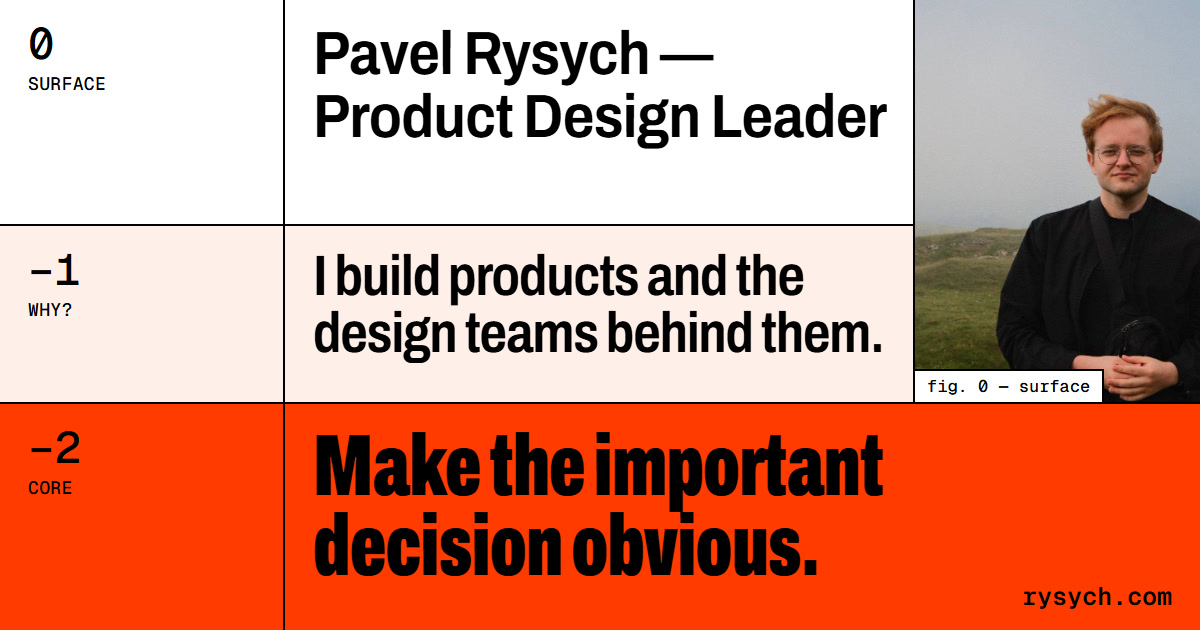
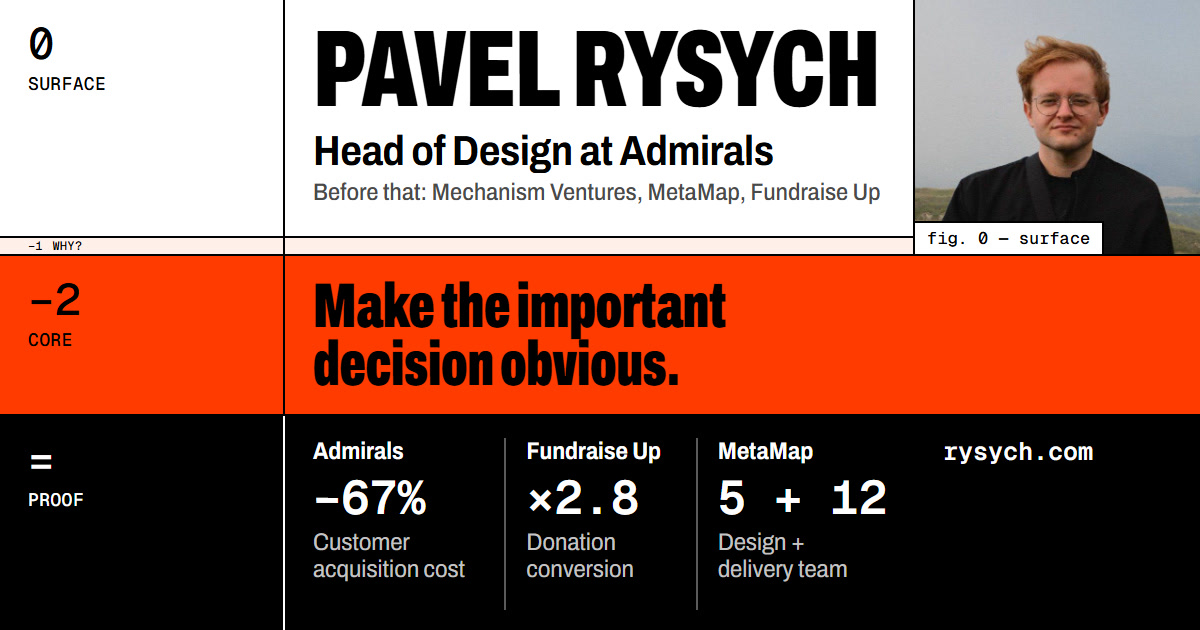
Hero says who Pavel is; the index X-rays each project to its core
The first screen now names the role and scope: Head of Design at
Admirals, the three companies before, and "9+ years, Tbilisi GMT+4,
remote or relocation"; the homepage header keeps only the name and the
legend says "Core". All five work rows load closed, so the whole career
fits under the hero; hovering or focusing a row turns it red and shows
its core sentence in place of the name. Toggle hover states no longer
stick after a tap on phones. New home share card with the role and
three approved figures.

diff --git a/index.html b/index.html
@@ -18,26 +18,26 @@
     <link rel="preload" href="/assets/fonts/geist-mono-var.woff2?v=1" as="font" type="font/woff2" crossorigin>
     <link rel="preload" as="image" type="image/webp" imagesrcset="/assets/hero-hills-800.webp 800w, /assets/hero-hills-1280.webp 1280w, /assets/hero-hills-2000.webp 2000w" imagesizes="(max-width: 640px) 300px, 540px" fetchpriority="high">
     <script>document.documentElement.classList.add('js')</script>
-    <link rel="stylesheet" href="/home.css?v=81">
+    <link rel="stylesheet" href="/home.css?v=83">
     <script src="/site.js?v=20" defer></script>
-    <script src="/home.js?v=21" defer></script>
+    <script src="/home.js?v=22" defer></script>
     <meta property="og:type" content="website">
     <meta property="og:locale" content="en_US">
     <meta property="og:site_name" content="Pavel Rysych">
     <meta property="og:title" content="Pavel Rysych — Product Design Leader &amp; Head of Design">
     <meta property="og:description" content="Pavel Rysych, Product Design Leader and Head of Design, builds products and the design teams behind them. Admirals: −67% CAC. Fundraise Up: 2.8× conversion.">
     <meta property="og:url" content="https://www.rysych.com/">
-    <meta property="og:image" content="https://www.rysych.com/assets/og/home.jpg?v=3">
-    <meta property="og:image:secure_url" content="https://www.rysych.com/assets/og/home.jpg?v=3">
+    <meta property="og:image" content="https://www.rysych.com/assets/og/home.jpg?v=4">
+    <meta property="og:image:secure_url" content="https://www.rysych.com/assets/og/home.jpg?v=4">
     <meta property="og:image:type" content="image/jpeg">
     <meta property="og:image:width" content="1200">
     <meta property="og:image:height" content="630">
-    <meta property="og:image:alt" content="Pavel Rysych, Product Design Leader: I build products and the design teams behind them. Make the important decision obvious.">
+    <meta property="og:image:alt" content="Pavel Rysych, Head of Design at Admirals; before that Mechanism Ventures, MetaMap, Fundraise Up. Core: Make the important decision obvious. Proof: −67% customer acquisition cost at Admirals, ×2.8 donation conversion at Fundraise Up, and a 5 + 12 design and delivery team at MetaMap.">
     <meta name="twitter:card" content="summary_large_image">
     <meta name="twitter:title" content="Pavel Rysych — Product Design Leader &amp; Head of Design">
     <meta name="twitter:description" content="Pavel Rysych, Product Design Leader and Head of Design, builds products and the design teams behind them. Admirals: −67% CAC. Fundraise Up: 2.8× conversion.">
-    <meta name="twitter:image" content="https://www.rysych.com/assets/og/home.jpg?v=3">
-    <meta name="twitter:image:alt" content="Pavel Rysych, Product Design Leader: I build products and the design teams behind them. Make the important decision obvious.">
+    <meta name="twitter:image" content="https://www.rysych.com/assets/og/home.jpg?v=4">
+    <meta name="twitter:image:alt" content="Pavel Rysych, Head of Design at Admirals; before that Mechanism Ventures, MetaMap, Fundraise Up. Core: Make the important decision obvious. Proof: −67% customer acquisition cost at Admirals, ×2.8 donation conversion at Fundraise Up, and a 5 + 12 design and delivery team at MetaMap.">
     <script type="application/ld+json">{"@context":"https://schema.org","@graph":[{"@type":"WebSite","@id":"https://www.rysych.com/#website","url":"https://www.rysych.com/","name":"Pavel Rysych","alternateName":["Rysych","rysych.com"],"description":"Portfolio of Pavel Rysych, Product Design Leader and Head of Design.","inLanguage":"en","publisher":{"@id":"https://www.rysych.com/#person"}},{"@type":"ProfilePage","@id":"https://www.rysych.com/","url":"https://www.rysych.com/","name":"Pavel Rysych — Product Design Leader & Head of Design","description":"Pavel Rysych, Product Design Leader and Head of Design, builds products and the design teams behind them. Admirals: −67% CAC. Fundraise Up: 2.8× conversion.","inLanguage":"en","isPartOf":{"@id":"https://www.rysych.com/#website"},"mainEntity":{"@id":"https://www.rysych.com/#person"},"primaryImageOfPage":{"@id":"https://www.rysych.com/#portrait"},"dateCreated":"2026-05-05T17:44:40+04:00","dateModified":"2026-10-08T20:00:00+04:00"},{"@type":"Person","@id":"https://www.rysych.com/#person","name":"Pavel Rysych","url":"https://www.rysych.com/","jobTitle":"Head of Design","sameAs":["https://www.linkedin.com/in/rysych/","https://www.instagram.com/pavel_rysych/","https://www.threads.com/@pavel_rysych"],"image":{"@id":"https://www.rysych.com/#portrait"},"worksFor":{"@id":"https://www.rysych.com/#org-admirals"},"description":"Product Design Leader and Head of Design. Leads product design, builds design teams and brings AI into everyday product work.","email":"mailto:rysych@gmail.com","knowsAbout":["Product design","Design leadership","Design systems","Prototyping","AI-assisted design and implementation","Product and growth","Customer journeys","Onboarding","Identity verification","Donation experience"]},{"@type":"ImageObject","@id":"https://www.rysych.com/#portrait","url":"https://www.rysych.com/assets/hero-hills-2000.jpg","contentUrl":"https://www.rysych.com/assets/hero-hills-2000.jpg","width":2000,"height":1333,"caption":"Pavel Rysych"},{"@type":"Organization","@id":"https://www.rysych.com/#org-admirals","name":"Admirals","url":"https://admiralmarkets.com/","logo":{"@type":"ImageObject","url":"https://www.rysych.com/assets/admirals-logo-dark.svg"}}]}</script>
   </head>
   <body class="home">
@@ -45,7 +45,6 @@
 
     <header class="site-header">
       <a class="wordmark" href="#main" aria-label="Pavel Rysych, Product Design Leader, home">Pavel Rysych</a>
-      <span class="site-header__title">Product Design Leader</span>
       <nav class="site-nav" aria-label="Main navigation">
         <ul>
           <li><a href="#work">Work</a></li>
@@ -75,6 +74,8 @@
           <p class="depth" aria-hidden="true"><b>0</b><span>Surface</span></p>
           <div class="body">
             <h1 id="hero-title">Pavel Rysych — Product Design Leader</h1>
+            <p class="hero__role">Head of Design at Admirals; before that <span class="nowrap">Mechanism Ventures</span>, MetaMap, <span class="nowrap">Fundraise Up</span></p>
+            <p class="hero__facts mono"><span class="nowrap">9+ years ·</span> <span class="nowrap">Tbilisi, GMT+4 ·</span> <span class="nowrap">remote or relocation</span></p>
             <p class="hero__intro">I lead product design and bring AI into everyday work — from prototypes and design systems to implementation.</p>
           </div>
         </div>
@@ -104,7 +105,7 @@
             <li><i aria-hidden="true"></i>0 Surface</li>
             <li><i class="k1" aria-hidden="true"></i>−1 Why?</li>
             <li><i class="k2" aria-hidden="true"></i>−2 Why?</li>
-            <li><i class="k3" aria-hidden="true"></i>−3 Core</li>
+            <li><i class="k3" aria-hidden="true"></i>Core</li>
             <li><i class="k4" aria-hidden="true"></i>= Proof</li>
           </ul>
           <button class="digall" type="button" data-digall hidden><span class="digall__label">Dig all five</span><svg width="16" height="16" viewBox="0 0 16 16" aria-hidden="true" focusable="false"><path d="M8 2v11M3.5 8.5 8 13l4.5-4.5" fill="none" stroke="currentColor" stroke-width="1.7" stroke-linecap="square"/></svg></button>
@@ -113,7 +114,7 @@
         <ol class="index" data-borehole>
 
           <!-- 1 · Subskim -->
-          <li class="p is-open" id="subskim">
+          <li class="p" id="subskim">
             <h3><button class="p__btn" type="button" id="btn-subskim" aria-expanded="true" aria-controls="dig-subskim">
               <span class="p__yrs mono">2026–Now</span>
               <span class="p__thumb" aria-hidden="true"><video data-case-autoplay data-case-lazy data-quiet muted loop playsinline disablepictureinpicture disableremoteplayback preload="none" data-poster="/assets/card-subskim-poster.jpg" width="1280" height="640" style="--pos:30% 40%" aria-hidden="true"><source data-src="/assets/card-subskim.mp4" type="video/mp4"></video></span>

diff --git a/home.css b/home.css
@@ -243,8 +243,8 @@ button {
   user-select: none;
 }
 .mobile-nav summary::-webkit-details-marker { display: none; }
-.mobile-nav summary:hover,
 .mobile-nav[open] summary { background: var(--ink); color: var(--paper); }
+@media (hover: hover) { .mobile-nav summary:hover { background: var(--ink); color: var(--paper); } }
 .mobile-nav summary:focus-visible { outline-color: var(--signal); }
 .mobile-nav nav {
   position: absolute;
@@ -292,12 +292,12 @@ button {
 .motion-toggle__play,
 .motion-toggle.is-paused .motion-toggle__pause { display: none; }
 .motion-toggle.is-paused .motion-toggle__play { display: block; }
-.motion-toggle:hover,
 .motion-toggle:focus-visible { background: var(--ink); color: var(--paper); }
+@media (hover: hover) { .motion-toggle:hover { background: var(--ink); color: var(--paper); } }
 .motion-toggle:focus-visible { outline-color: var(--signal); }
 .motion-toggle.is-paused { background: var(--signal); border-color: var(--signal); color: var(--ink); }
-.motion-toggle.is-paused:hover,
 .motion-toggle.is-paused:focus-visible { background: var(--ink); border-color: var(--ink); color: var(--paper); }
+@media (hover: hover) { .motion-toggle.is-paused:hover { background: var(--ink); border-color: var(--ink); color: var(--paper); } }
 
 /* ---------- Strata: the shared grammar ---------- */
 
@@ -385,7 +385,10 @@ button {
 .hero__pic img { position: absolute; inset: 0; width: 100%; height: 100%; object-fit: cover; object-position: 71% 42%; }
 .hero__pic figcaption { position: absolute; left: 0; bottom: 0; padding: 4px 8px; border-top: 1px solid var(--ink); border-right: 1px solid var(--ink); background: var(--paper); }
 .hero h1 { font-size: clamp(24px, 2.3vw, 36px); font-weight: 650; font-stretch: 88%; line-height: 1.08; letter-spacing: -0.01em; text-wrap: balance; }
-.hero__intro { max-width: 62ch; margin-top: 8px; color: var(--mute); text-wrap: pretty; }
+/* who he is, in two lines a recruiter checks first: the current role and record, then years, place and format */
+.hero__role { margin-top: 8px; font-weight: 560; line-height: 1.35; text-wrap: balance; }
+.hero__facts { margin-top: 4px; }
+.hero__intro { max-width: 62ch; margin-top: 10px; color: var(--mute); text-wrap: pretty; }
 .hero__s0 .body { padding-bottom: clamp(16px, 1.8vw, 24px); }
 .promise { max-width: 22ch; font-size: clamp(32px, 3.9vw, 60px); font-weight: 650; font-stretch: 80%; line-height: 1; letter-spacing: -0.018em; text-wrap: balance; }
 .hero__core .body { padding-block: clamp(14px, 1.6vw, 22px) clamp(14px, 1.8vw, 24px); }
@@ -424,8 +427,8 @@ button {
   white-space: nowrap;
 }
 .digall[hidden] { display: none; }
-.digall:hover,
 .digall:focus-visible { background: var(--ink); color: var(--paper); }
+@media (hover: hover) { .digall:hover { background: var(--ink); color: var(--paper); } }
 .digall:focus-visible { outline-color: var(--signal); }
 .digall.is-all { background: var(--signal); border-color: var(--signal); color: var(--ink); }
 .digall svg,
@@ -434,6 +437,7 @@ button {
 
 .p { border-bottom: 1px solid var(--ink); }
 .p__btn {
+  position: relative;
   display: grid;
   grid-template-columns: var(--ruler) auto minmax(0, 1fr) minmax(0, 13rem) minmax(0, 12.5rem) auto;
   align-items: center;
@@ -480,12 +484,15 @@ button {
   white-space: nowrap;
 }
 .p__shut { display: none; }
-.p__btn:hover,
 .p__btn:focus-visible,
 .p.is-open .p__btn { background: var(--ink); color: var(--paper); }
-.p__btn:hover small,
 .p__btn:focus-visible small,
 .p.is-open .p__btn small { color: var(--mute-dark); }
+/* only a real pointer hovers: on touch a tapped row would keep the hover and look dug after Close */
+@media (hover: hover) {
+  .p__btn:hover { background: var(--ink); color: var(--paper); }
+  .p__btn:hover small { color: var(--mute-dark); }
+}
 .p__btn:focus-visible { outline: 3px solid var(--signal); outline-offset: -3px; }
 /* two dug rows meet black on black: a dark hairline keeps them apart */
 .p.is-open .p__btn { box-shadow: inset 0 1px 0 var(--rule-dark); }
@@ -495,6 +502,36 @@ button {
 .p.is-open .p__shut { display: inline; }
 /* without script every row is already dug, so the toggle has nothing to say */
 html:not(.js) .p__why { display: none; }
+
+/* X-ray: point at a closed row, or tab to it, and it shows what lies under it. The row turns
+   the core's red and the name gives way to the core, copied verbatim from the row's Core stratum
+   by home.js and sized to fit the name's cell. A state, not a motion: the box sits over the cell
+   out of flow, so the row never changes height. --under fades what the box covers; it only goes
+   transparent, so the name stays in the button's accessible name. The X-ray itself is aria-hidden. */
+.p__xray {
+  position: absolute;
+  inset: 0;
+  grid-column: 3 / 4;
+  grid-row: 1 / 2;
+  display: flex;
+  flex-direction: column;
+  justify-content: center;
+  gap: 6px;
+  padding: 10px 16px 10px clamp(14px, 1.6vw, 26px);
+  overflow: hidden;
+  visibility: var(--xray, hidden);
+}
+.p__xlabel { flex: none; overflow: hidden; font-family: var(--mono); font-size: 12px; font-weight: 500; line-height: 1.2; text-overflow: ellipsis; text-transform: uppercase; white-space: nowrap; }
+.p__xcore { flex: none; font-size: clamp(40px, 5.7vw, 92px); font-weight: 860; font-stretch: 62%; line-height: 0.9; letter-spacing: -0.012em; text-wrap: balance; }
+.index .p__name { opacity: var(--under, 1); }
+.js .p:not(.is-open) .p__btn:focus-visible { --xray: visible; --under: 0; background: var(--signal); color: var(--ink); outline-color: var(--ink); }
+.js .p:not(.is-open) .p__btn:focus-visible small { color: var(--ink); }
+.js .p:not(.is-open) .p__btn:focus-visible .p__why { border-color: var(--ink); background: var(--ink); color: var(--paper); }
+@media (hover: hover) {
+  .js .p:not(.is-open) .p__btn:hover { --xray: visible; --under: 0; background: var(--signal); color: var(--ink); }
+  .js .p:not(.is-open) .p__btn:hover small { color: var(--ink); }
+  .js .p:not(.is-open) .p__btn:hover .p__why { border-color: var(--ink); background: var(--ink); color: var(--paper); }
+}
 
 /* the dig. Before the script runs, closed rows stay shut so nothing jumps;
    once it runs they become hidden="until-found", which find-in-page can still open. */
@@ -666,8 +703,8 @@ html:not(.js) .p__why { display: none; }
 .copy.is-copied { background: var(--signal); border-color: var(--signal); color: var(--ink); }
 .copy.is-copied .copy__idle { visibility: hidden; }
 .copy.is-copied .copy__done { visibility: visible; }
-.copy:hover:not(.is-copied),
 .copy:focus-visible:not(.is-copied) { background: var(--paper); color: var(--ink); }
+@media (hover: hover) { .copy:hover:not(.is-copied) { background: var(--paper); color: var(--ink); } }
 .links { display: flex; flex-wrap: wrap; gap: 10px; margin-top: clamp(20px, 2.4vw, 32px); }
 .links a {
   display: inline-flex;
@@ -753,6 +790,9 @@ html:not(.js) .p__why { display: none; }
   .p__role { grid-area: role; align-self: start; padding: 0 16px 10px clamp(14px, 1.6vw, 26px); }
   .p__fig { grid-area: fig; }
   .p__why { grid-area: why; }
+  /* the role sits under the name here, so the X-ray takes the whole name block and covers both */
+  .p__xray { grid-column: name; grid-row: name-start / role-end; }
+  .index .p__role { opacity: var(--under, 1); }
 }
 
 @media (max-width: 860px) {
@@ -846,6 +886,7 @@ html:not(.js) .p__why { display: none; }
   .p__thumb { width: clamp(56px, 18vw, 76px); margin: 0; }
   .p__name { padding: 2px 0 0; font-size: clamp(38px, 11.6vw, 56px); }
   .p__role { padding: 0; }
+  .p__xray { padding: 0; }
   .p__fig { flex-flow: row wrap; align-items: baseline; gap: 2px 8px; padding: 0; }
   .p__fig b { font-size: 20px; }
   .p__why { margin-right: 0; justify-self: end; }

diff --git a/home.js b/home.js
@@ -89,6 +89,62 @@
     window.addEventListener('hashchange', fromHash);
     if (window.location.hash) fromHash();
     sync();
+
+    // X-ray: a closed row shows its core where its name stands while it is pointed at or tabbed to.
+    // The words are copied from the row's own Core stratum, so they stay verbatim; home.css decides
+    // when the box shows, and this only builds it and sizes the sentence to the name's cell.
+    const xrays = rows.map((row) => {
+      const name = row.querySelector('.p__name');
+      const core = row.querySelector('.dig .t-core .core-line');
+      const depth = row.querySelector('.dig .t-core .depth');
+      if (!name || !core) return null;
+      const box = document.createElement('span');
+      box.className = 'p__xray';
+      box.setAttribute('aria-hidden', 'true');
+      const label = document.createElement('span');
+      label.className = 'p__xlabel';
+      const where = depth ? [...depth.children].map((part) => part.textContent.trim()).join(' ') : 'Core';
+      label.textContent = `${name.textContent.trim()} / ${where}`;
+      const text = document.createElement('span');
+      text.className = 'p__xcore';
+      text.textContent = core.textContent.trim();
+      box.append(label, text);
+      name.after(box);
+      return { box, label, text };
+    }).filter(Boolean);
+
+    // the largest size, up to the Core setting, at which the sentence fits the cell without overflowing
+    const fit = ({ box, label, text }) => {
+      text.style.removeProperty('font-size');
+      const cs = getComputedStyle(box);
+      const width = box.clientWidth - parseFloat(cs.paddingLeft) - parseFloat(cs.paddingRight);
+      const height = box.clientHeight - parseFloat(cs.paddingTop) - parseFloat(cs.paddingBottom) - label.offsetHeight - (parseFloat(cs.rowGap) || 0);
+      if (width <= 0 || height <= 0) return;
+      const fits = () => text.offsetHeight <= height && text.scrollWidth <= text.clientWidth;
+      if (fits()) return;
+      let lo = 10;
+      let hi = parseFloat(getComputedStyle(text).fontSize);
+      for (let i = 0; i < 9; i += 1) {
+        const mid = (lo + hi) / 2;
+        text.style.fontSize = `${mid}px`;
+        if (fits()) lo = mid;
+        else hi = mid;
+      }
+      text.style.fontSize = `${Math.floor(lo)}px`;
+    };
+    const fitAll = () => xrays.forEach(fit);
+    if ('ResizeObserver' in window) {
+      const watch = new ResizeObserver((entries) => entries.forEach((entry) => {
+        const xray = xrays.find((x) => x.box === entry.target);
+        if (xray) fit(xray);
+      }));
+      xrays.forEach((x) => watch.observe(x.box));
+    } else {
+      window.addEventListener('resize', fitAll);
+      fitAll();
+    }
+    // the faces swap in after first paint and change every measure
+    document.fonts?.ready.then(fitAll);
   });
 
   /* ---------- Copy email: works even where mailto has no mail app behind it ---------- */

diff --git a/work/fundraise-up/index.html b/work/fundraise-up/index.html
@@ -14,11 +14,11 @@
     <link rel="apple-touch-icon" sizes="180x180" href="/assets/apple-touch-icon.png?v=2">
     <link rel="preload" href="/assets/fonts/archivo-var-latin.woff2?v=1" as="font" type="font/woff2" crossorigin>
     <link rel="preload" href="/assets/fonts/geist-mono-var.woff2?v=1" as="font" type="font/woff2" crossorigin>
-    <link rel="stylesheet" href="/home.css?v=81">
+    <link rel="stylesheet" href="/home.css?v=83">
     <link rel="stylesheet" href="/assets/fundraise-case.css?v=3">
     <link rel="stylesheet" href="/case.css?v=34">
     <script src="/site.js?v=20" defer></script>
-    <script src="/home.js?v=21" defer></script>
+    <script src="/home.js?v=22" defer></script>
     <meta property="og:type" content="article">
     <meta property="og:locale" content="en_US">
     <meta property="og:site_name" content="Pavel Rysych">

diff --git a/work/admirals/index.html b/work/admirals/index.html
@@ -15,10 +15,10 @@
     <link rel="preload" as="image" href="/assets/admirals-website-film-v3-poster.jpg" fetchpriority="high">
     <link rel="preload" href="/assets/fonts/archivo-var-latin.woff2?v=1" as="font" type="font/woff2" crossorigin>
     <link rel="preload" href="/assets/fonts/geist-mono-var.woff2?v=1" as="font" type="font/woff2" crossorigin>
-    <link rel="stylesheet" href="/home.css?v=81">
+    <link rel="stylesheet" href="/home.css?v=83">
     <link rel="stylesheet" href="/case.css?v=34">
     <script src="/site.js?v=20" defer></script>
-    <script src="/home.js?v=21" defer></script>
+    <script src="/home.js?v=22" defer></script>
     <meta property="og:type" content="article">
     <meta property="og:locale" content="en_US">
     <meta property="og:site_name" content="Pavel Rysych">

diff --git a/work/metamap/index.html b/work/metamap/index.html
@@ -15,10 +15,10 @@
     <link rel="preload" as="image" href="/assets/metamap-mati-poster.jpg" fetchpriority="high">
     <link rel="preload" href="/assets/fonts/archivo-var-latin.woff2?v=1" as="font" type="font/woff2" crossorigin>
     <link rel="preload" href="/assets/fonts/geist-mono-var.woff2?v=1" as="font" type="font/woff2" crossorigin>
-    <link rel="stylesheet" href="/home.css?v=81">
+    <link rel="stylesheet" href="/home.css?v=83">
     <link rel="stylesheet" href="/case.css?v=34">
     <script src="/site.js?v=20" defer></script>
-    <script src="/home.js?v=21" defer></script>
+    <script src="/home.js?v=22" defer></script>
     <meta property="og:type" content="article">
     <meta property="og:locale" content="en_US">
     <meta property="og:site_name" content="Pavel Rysych">

diff --git a/work/mechanism/index.html b/work/mechanism/index.html
@@ -14,10 +14,10 @@
     <link rel="apple-touch-icon" sizes="180x180" href="/assets/apple-touch-icon.png?v=2">
     <link rel="preload" href="/assets/fonts/archivo-var-latin.woff2?v=1" as="font" type="font/woff2" crossorigin>
     <link rel="preload" href="/assets/fonts/geist-mono-var.woff2?v=1" as="font" type="font/woff2" crossorigin>
-    <link rel="stylesheet" href="/home.css?v=81">
+    <link rel="stylesheet" href="/home.css?v=83">
     <link rel="stylesheet" href="/case.css?v=34">
     <script src="/site.js?v=20" defer></script>
-    <script src="/home.js?v=21" defer></script>
+    <script src="/home.js?v=22" defer></script>
     <meta property="og:type" content="article">
     <meta property="og:locale" content="en_US">
     <meta property="og:site_name" content="Pavel Rysych">

diff --git a/work/subskim/index.html b/work/subskim/index.html
@@ -14,10 +14,10 @@
     <link rel="apple-touch-icon" sizes="180x180" href="/assets/apple-touch-icon.png?v=2">
     <link rel="preload" href="/assets/fonts/archivo-var-latin.woff2?v=1" as="font" type="font/woff2" crossorigin>
     <link rel="preload" href="/assets/fonts/geist-mono-var.woff2?v=1" as="font" type="font/woff2" crossorigin>
-    <link rel="stylesheet" href="/home.css?v=81">
+    <link rel="stylesheet" href="/home.css?v=83">
     <link rel="stylesheet" href="/case.css?v=34">
     <script src="/site.js?v=20" defer></script>
-    <script src="/home.js?v=21" defer></script>
+    <script src="/home.js?v=22" defer></script>
     <meta property="og:type" content="article">
     <meta property="og:locale" content="en_US">
     <meta property="og:site_name" content="Pavel Rysych">

diff --git a/404.html b/404.html
@@ -14,9 +14,9 @@
     <link rel="manifest" href="/site.webmanifest?v=2">
     <link rel="preload" href="/assets/fonts/archivo-var-latin.woff2?v=1" as="font" type="font/woff2" crossorigin>
     <link rel="preload" href="/assets/fonts/geist-mono-var.woff2?v=1" as="font" type="font/woff2" crossorigin>
-    <link rel="stylesheet" href="/home.css?v=81">
+    <link rel="stylesheet" href="/home.css?v=83">
     <script src="/site.js?v=20" defer></script>
-    <script src="/home.js?v=21" defer></script>
+    <script src="/home.js?v=22" defer></script>
   </head>
   <body class="error-page">
     <a class="skip-link" href="#main">Skip to content</a>

diff --git a/DESIGN.md b/DESIGN.md
@@ -251,7 +251,9 @@ Square everywhere (0px radius): frames, buttons, tags, thumbnails, swatches, tab
 
 ### Borehole Row (signature)
 - **Closed:** a full-width row on paper: years in the ruler, a small 4:3 live film thumbnail in a 1px frame, the uppercase compressed name, role, one headline figure with a mono caption, and a boxed "Why?" with a down arrow.
-- **Hover / Focus / Open:** the row turns ink with paper text; open, the toggle turns signal red, reads "Close" and the arrow rotates 180deg. The first project is open by default; "Dig all five" opens every row and turns red.
+- **X-ray (hover on real pointers, and keyboard focus):** a closed row turns signal red and its name is covered by its core: a mono label "<PROJECT> / −3 CORE" and the core sentence at Core weight, shrunk to fit; row height never changes. Touch screens get no hover state.
+- **Open:** the row turns ink with paper text, the toggle turns signal red, reads "Close" and the arrow rotates 180deg. Every row is closed on load (the whole career fits under the hero); "Dig all five" opens every row and turns red; /#slug opens that row.
+- **Hero credentials:** under the H1 in 0 Surface, "Head of Design at Admirals; before that Mechanism Ventures, MetaMap, Fundraise Up" and a mono line "9+ years · Tbilisi, GMT+4 · remote or relocation". The homepage header carries only the name.
 - **Dig:** opening reveals the strata one under another (clip from the top plus 12px drop, 480ms, 90ms stagger, `cubic-bezier(0.16, 1, 0.3, 1)`); skipped under reduced motion. Without script every row is already dug; closed rows use `hidden="until-found"` so find-in-page still opens them.
 
 ### Surface Stratum
